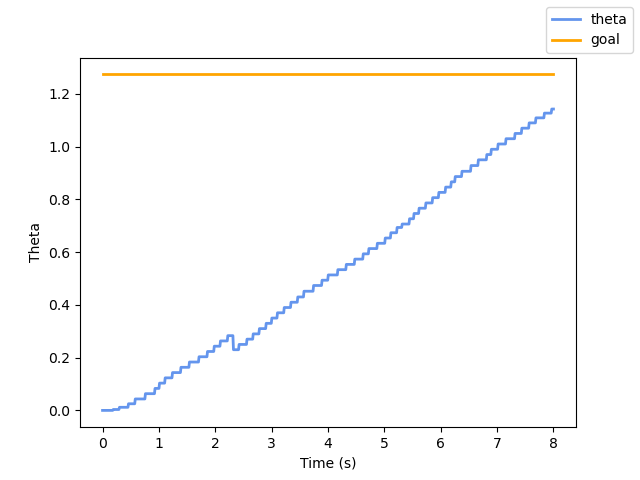
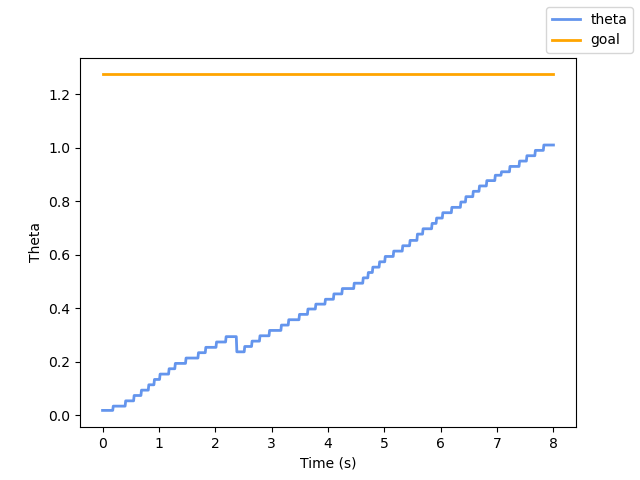
Updated HeadingController to declare kp as a ROS2 parameter

diff --git a/autonomy_repo/scripts/heading_controller.py b/autonomy_repo/scripts/heading_controller.py
@@ -12,7 +12,12 @@ class HeadingController(BaseHeadingController):
         super().__init__()  # Call the parent class's __init__ method
 
         # Proportional control gain
-        self.kp = 2.0
+        self.declare_parameter("kp", 2.0)
+        
+    @property
+    def kp(self) -> float:
+        """ Retrieve the real-time value of the kp parameter """
+        return self.get_parameter("kp").value
 
 
     def compute_control_with_goal(self, state: TurtleBotState, goal: TurtleBotState) -> TurtleBotControl:
